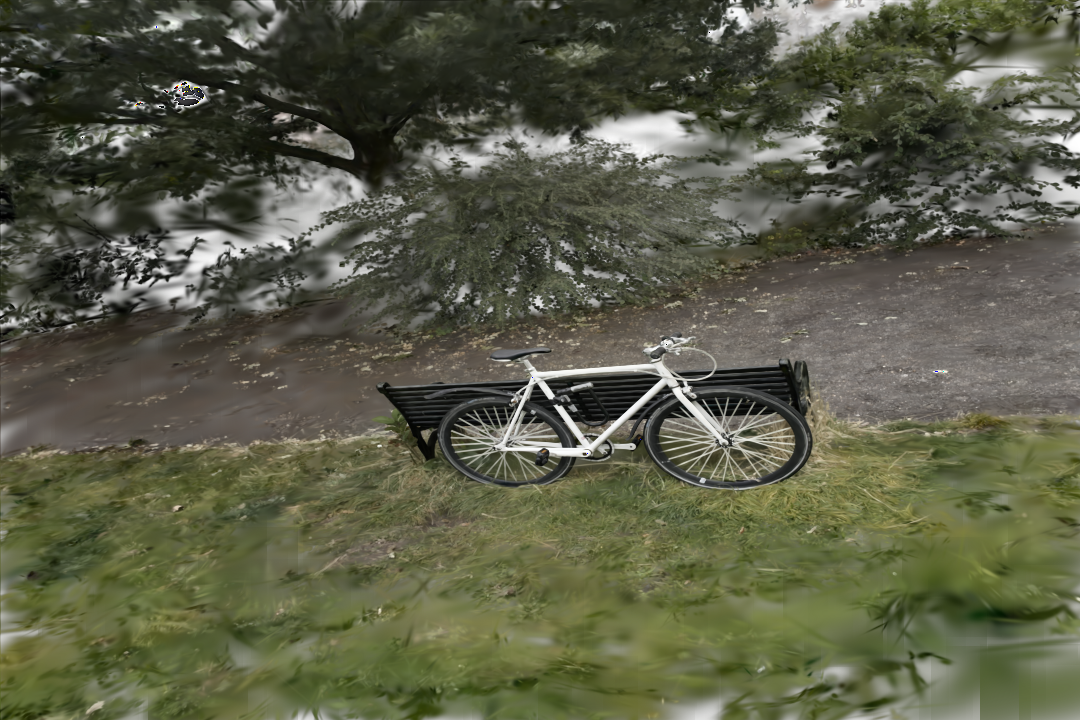
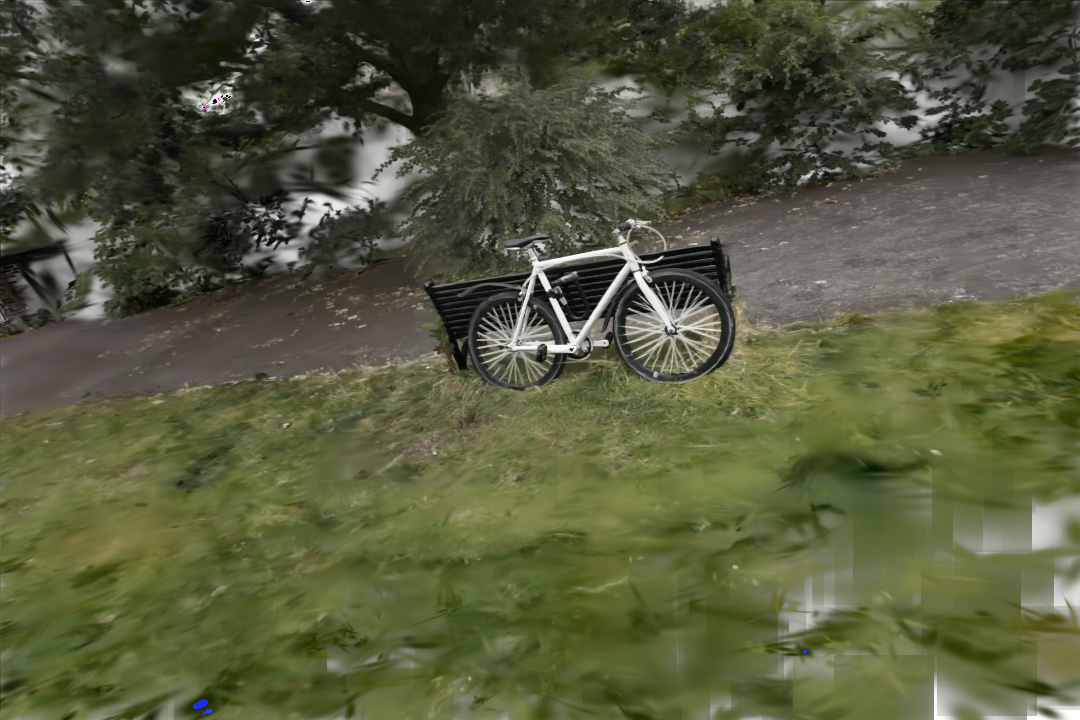
fixed aspect ratio

diff --git a/src/Camera.cpp b/src/Camera.cpp
@@ -9,7 +9,7 @@ Camera::Camera()
     position = glm::vec3(0.0f, 0.0f, 0.0f);
     rotation = glm::vec3(0.0f, 0.0f, 0.0f);
     fovy = 60.0f;
-    aspect = 1.0f;
+    aspect = (float)width / (float)height;
     near = 0.1f;
     far = 10000.0f;
     projectionMatrix = glm::perspective(glm::radians(fovy), aspect, near, far);
@@ -21,7 +21,7 @@ Camera::Camera(float x, float y, float z)
     position = glm::vec3(x, y, z);
     rotation = glm::vec3(0.0f, 0.0f, 0.0f);
     fovy = 60.0f;
-    aspect = 1.0f;
+    aspect = (float)width / (float)height;
     near = 0.1f;
     far = 10000.0f;
     projectionMatrix = glm::perspective(glm::radians(fovy), aspect, near, far);

diff --git a/main.cpp b/main.cpp
@@ -37,7 +37,7 @@ int main()
 
 
     //initialise camera
-    Camera camera(5.0f, 1.5f, 0.0f);
+    Camera camera(5.0f, 0.5f, 0.0f);
     //make the camera look down a bit
     camera.rotateDown(20.0f);
     //rotate camera 40 degrees
